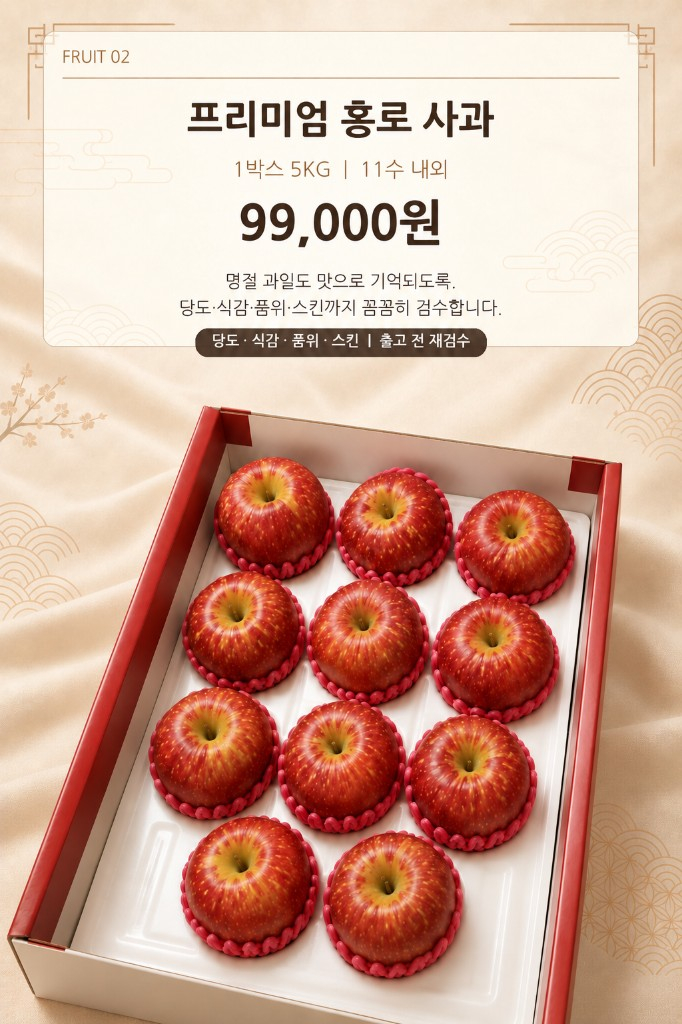
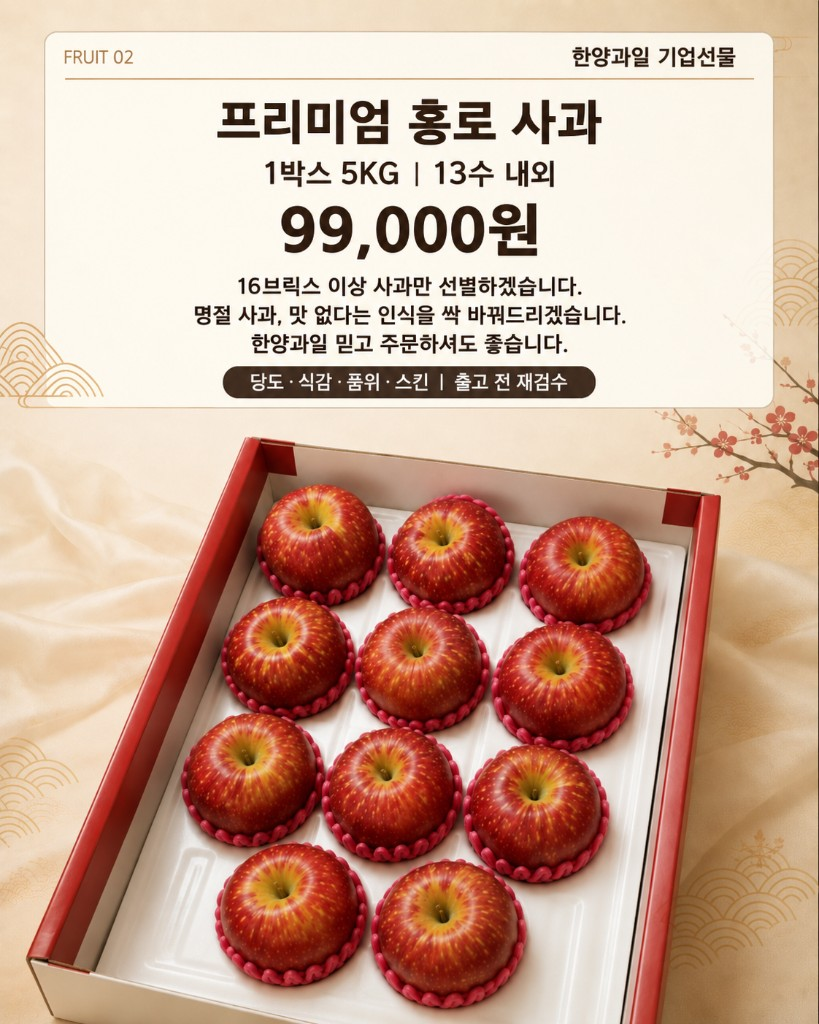
추석 과일 이미지·상품정보 업데이트 및 모바일 주문 바 추가

diff --git a/src/components/ChuseokGiftAudience.tsx b/src/components/ChuseokGiftAudience.tsx
@@ -59,12 +59,18 @@ export default function ChuseokGiftAudience() {
             {PROMISES.map((promise, index) => (
               <li
                 key={promise}
-                className="flex gap-3 text-sm leading-relaxed text-amber-100/90 sm:text-base"
+                className="flex min-w-0 gap-3 text-sm leading-relaxed text-amber-100/90 sm:text-base"
               >
                 <span className="flex h-6 w-6 shrink-0 items-center justify-center rounded-full bg-amber-300/20 text-xs font-black text-amber-200 sm:h-7 sm:w-7 sm:text-sm">
                   {index + 1}
                 </span>
-                <span className={`pt-0.5 ${index === 0 ? "whitespace-nowrap" : ""}`}>{promise}</span>
+                <span
+                  className={`min-w-0 flex-1 pt-0.5 text-pretty ${
+                    index === 0 ? "sm:whitespace-nowrap" : ""
+                  }`}
+                >
+                  {promise}
+                </span>
               </li>
             ))}
           </ol>

diff --git a/src/components/ChuseokLanding.tsx b/src/components/ChuseokLanding.tsx
@@ -2,6 +2,7 @@ import Image from "next/image";
 import Link from "next/link";
 import ChuseokGiftAudience from "@/components/ChuseokGiftAudience";
 import ChuseokGiftGallery from "@/components/ChuseokGiftGallery";
+import ChuseokMobileOrderBar from "@/components/ChuseokMobileOrderBar";
 import ChuseokOrderInfo from "@/components/ChuseokOrderInfo";
 import FloatingNav from "@/components/FloatingNav";
 import {
@@ -48,7 +49,7 @@ const HIGHLIGHTS = [
 
 export default function ChuseokLanding() {
   return (
-    <div className="relative flex min-h-screen flex-col overflow-x-hidden bg-indigo-950">
+    <div className="relative flex min-h-screen flex-col overflow-x-hidden bg-indigo-950 pb-[calc(5rem+env(safe-area-inset-bottom))] sm:pb-0">
       <FloatingNav
         variant="chuseok"
         items={[
@@ -175,6 +176,8 @@ export default function ChuseokLanding() {
           </p>
         </SectionShell>
       </footer>
+
+      <ChuseokMobileOrderBar />
     </div>
   );
 }

diff --git a/src/components/ChuseokMobileOrderBar.tsx b/src/components/ChuseokMobileOrderBar.tsx
@@ -1,0 +1,21 @@
+import Link from "next/link";
+import { chuseokPrimaryButtonClass } from "@/components/ChuseokDecor";
+import { CHUSEOK_ORDER_URL } from "@/lib/site";
+
+export default function ChuseokMobileOrderBar() {
+  return (
+    <div
+      className="fixed inset-x-0 bottom-0 z-40 border-t border-amber-400/25 bg-indigo-950/95 px-4 py-3 backdrop-blur-md sm:hidden"
+      style={{ paddingBottom: "max(0.75rem, env(safe-area-inset-bottom))" }}
+    >
+      <Link
+        href={CHUSEOK_ORDER_URL}
+        target="_blank"
+        rel="noopener noreferrer"
+        className={`${chuseokPrimaryButtonClass} w-full py-3.5 text-base`}
+      >
+        주문하기
+      </Link>
+    </div>
+  );
+}

diff --git a/src/components/ChuseokProductCard.tsx b/src/components/ChuseokProductCard.tsx
@@ -30,6 +30,7 @@ export default function ChuseokProductCard({ product, index }: ChuseokProductCar
             src={product.imageSrc}
             alt={product.imageAlt}
             fill
+            unoptimized
             className="object-contain object-center"
             sizes="(max-width: 640px) 100vw, (max-width: 1024px) 50vw, 22rem"
             priority={index < 2}

diff --git a/src/components/ChuseokGiftGallery.tsx b/src/components/ChuseokGiftGallery.tsx
@@ -25,7 +25,7 @@ export default function ChuseokGiftGallery() {
         ))}
       </ul>
 
-      <div className="mt-10 flex justify-center sm:mt-12">
+      <div className="mt-10 hidden justify-center sm:mt-12 sm:flex">
         <Link
           href={CHUSEOK_ORDER_URL}
           target="_blank"
